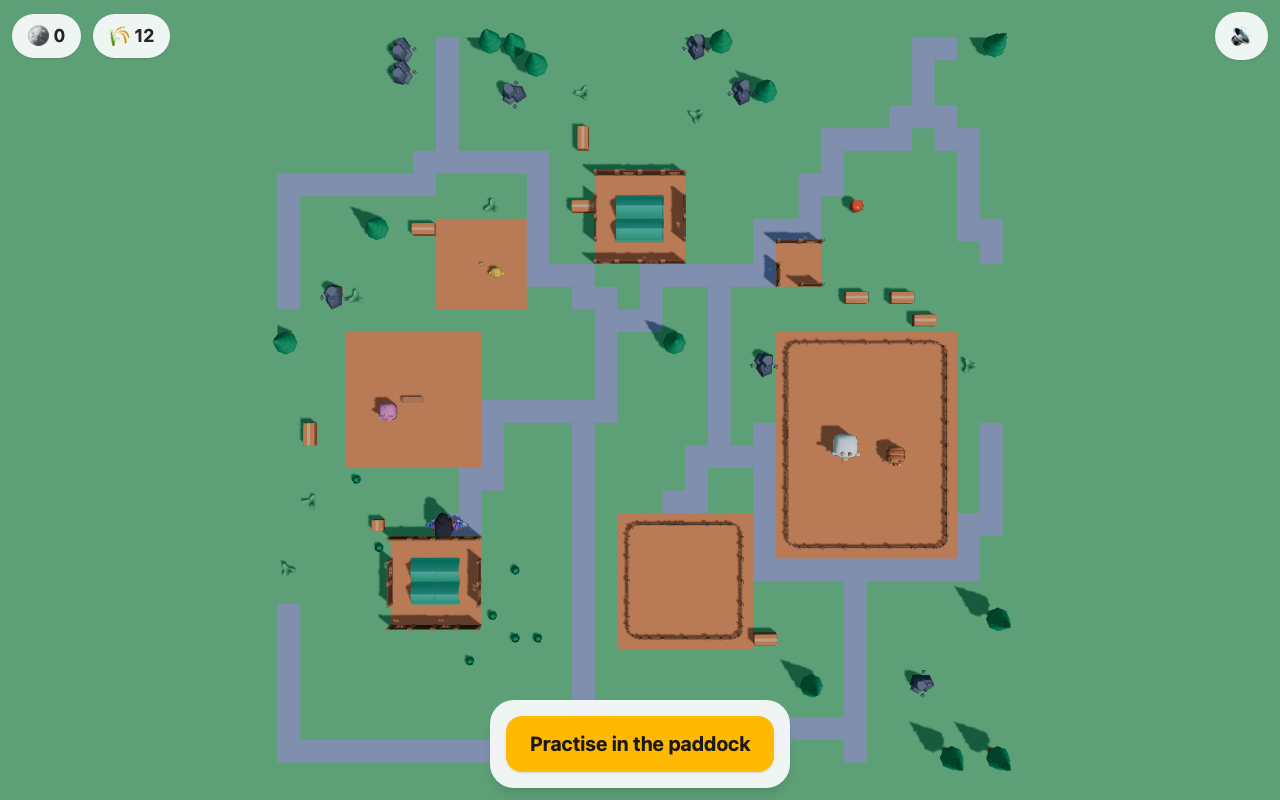
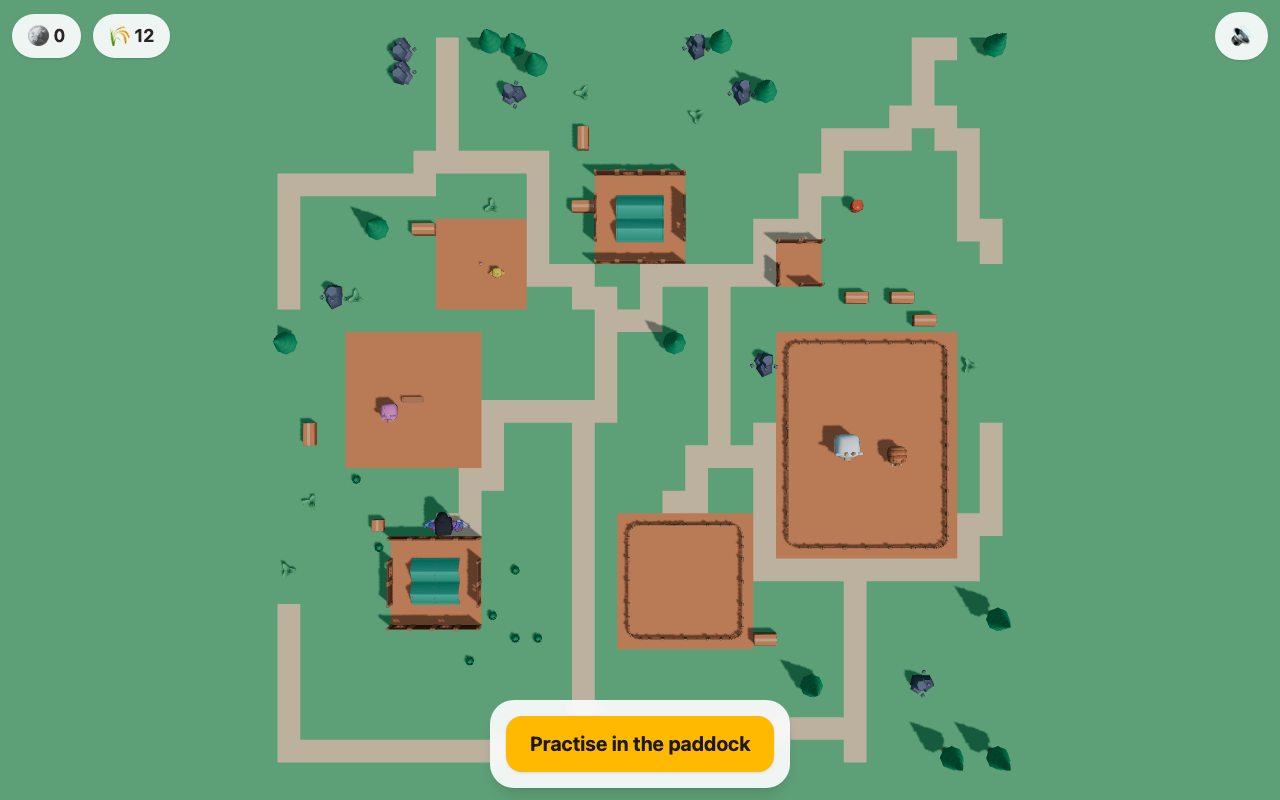
test(SF-76): world editor e2e against the dev server; prod ships no editor
editor.dev.spec.ts drives ?edit=1: paints a grass tile to dirt, places a
tree, rotates and places a fence then erases it (no override left),
drags the farmhouse a tile south and sees the path reach its new
arrival, undoes and redoes, adds a chunk, saves, then asserts the files
on disk hold exactly those edits and that a reload reads them back. It
restores both layout files afterwards. It runs in its own Playwright
project after the other dev specs, which read the same files.

dev-routes.spec.ts: against the production bundle ?edit=1 is the game,
no editor chunk is requested, and no shipped JS file carries the editor.

Screenshots: world-editor-1280x800.png, world-editor-topdown.png; the
dev-view farm screenshots refreshed with the new path colour. The
add-land outlines are a little stronger so they read in top-down.

Claude-Session: https://claude.ai/code/session_01XoFymmWrofKwSVoWC8EcRW

diff --git a/apps/web/e2e/editor.dev.spec.ts b/apps/web/e2e/editor.dev.spec.ts
@@ -1,0 +1,205 @@
+import { readFile, writeFile } from 'node:fs/promises'
+import { type Page, expect, test } from '@playwright/test'
+import type { TileCoord, TileWorld } from '@sf/world'
+
+/**
+ * The world editor (#105), end to end against the dev server: paint, place,
+ * rotate, erase, move a hotspot, undo and redo, add land, save — then the
+ * files on disk must hold exactly those edits. The files are restored after,
+ * so the run leaves the repo clean.
+ */
+
+const LAYOUTS = '../../packages/world/layouts'
+const OVERRIDES_FILE = `${LAYOUTS}/overrides.json`
+const WORLD_FILE = `${LAYOUTS}/world.json`
+const SCREENSHOTS = '../../docs/img'
+/** Below the editor's toolbar, which floats over the top of the view. */
+const CLEAR_OF_TOOLBAR_PX = 110
+
+test.describe.configure({ mode: 'serial' })
+test.use({ viewport: { width: 1280, height: 800 } })
+
+const originals = { overrides: '', world: '' }
+
+test.beforeAll(async () => {
+  originals.overrides = await readFile(OVERRIDES_FILE, 'utf8')
+  originals.world = await readFile(WORLD_FILE, 'utf8')
+})
+
+test.afterAll(async () => {
+  await writeFile(OVERRIDES_FILE, originals.overrides)
+  await writeFile(WORLD_FILE, originals.world)
+})
+
+async function screenOf(page: Page, tile: TileCoord): Promise<{ x: number; y: number }> {
+  return page.evaluate((at) => window.sfWorldEditor!.screenOf(at), tile)
+}
+
+async function clickTile(page: Page, tile: TileCoord): Promise<void> {
+  const { x, y } = await screenOf(page, tile)
+  await page.mouse.click(x, y)
+}
+
+async function dragTile(page: Page, from: TileCoord, to: TileCoord): Promise<void> {
+  const start = await screenOf(page, from)
+  const end = await screenOf(page, to)
+  await page.mouse.move(start.x, start.y)
+  await page.mouse.down()
+  await page.mouse.move(end.x, end.y, { steps: 10 })
+  await page.mouse.up()
+}
+
+/** Lets React commit and three.js draw what the last input changed — frames, not a timer. */
+async function nextFrames(page: Page): Promise<void> {
+  await page.evaluate(
+    () => new Promise<void>((resolve) => requestAnimationFrame(() => requestAnimationFrame(() => requestAnimationFrame(() => resolve())))),
+  )
+}
+
+async function world(page: Page): Promise<TileWorld> {
+  return page.evaluate(() => window.sfWorldEditor!.world())
+}
+
+/** Bare grass away from every hotspot, in the view below the toolbar, spaced apart, nearest the middle of the view first. */
+async function bareGrassTiles(page: Page, count: number): Promise<TileCoord[]> {
+  return page.evaluate(
+    ({ wanted, clearance }) => {
+      const probe = window.sfWorldEditor!
+      const current = probe.world()
+      const view = document.querySelector('[data-testid=editor-scene]')!.getBoundingClientRect()
+      const inView = (at: TileCoord) => {
+        const { x, y } = probe.screenOf(at)
+        return x > view.left + 20 && x < view.right - 20 && y > view.top + clearance && y < view.bottom - 20
+      }
+      const nearHotspot = (at: TileCoord) =>
+        current.hotspots.some(
+          ({ footprint: f }) => at.x >= f.x - 2 && at.x < f.x + f.width + 2 && at.z >= f.z - 2 && at.z < f.z + f.depth + 2,
+        )
+      const middle = { x: (view.left + view.right) / 2, y: (view.top + view.bottom) / 2 }
+      const fromMiddle = (at: TileCoord) => {
+        const { x, y } = probe.screenOf(at)
+        return Math.hypot(x - middle.x, y - middle.y)
+      }
+      const candidates = current.chunks.flatMap((chunk) =>
+        chunk.tiles.flatMap((tile, index) => {
+          const at = { x: chunk.coord.cx * 16 + (index % 16), z: chunk.coord.cz * 16 + Math.floor(index / 16) }
+          const bare = tile.ground.kind === 'grass' && !tile.structure && !tile.decor
+          return bare && !nearHotspot(at) && inView(at) ? [at] : []
+        }),
+      )
+      const found: TileCoord[] = []
+      for (const at of candidates.sort((one, other) => fromMiddle(one) - fromMiddle(other))) {
+        if (found.every((other) => Math.abs(other.x - at.x) + Math.abs(other.z - at.z) > 3)) found.push(at)
+      }
+      return found.slice(0, wanted)
+    },
+    { wanted: count, clearance: CLEAR_OF_TOOLBAR_PX },
+  )
+}
+
+async function inspect(page: Page, tile: TileCoord): Promise<void> {
+  await page.keyboard.press('v')
+  await clickTile(page, tile)
+  await expect(page.getByTestId('inspector-tile')).toHaveText(`x ${tile.x}, z ${tile.z}`)
+}
+
+function unsaved(page: Page) {
+  return page.getByTestId('unsaved-count')
+}
+
+test('edit the farm in the browser and save exactly those edits to the repo', async ({ page }) => {
+  const errors: string[] = []
+  page.on('pageerror', (error) => errors.push(error.message))
+
+  await page.goto('/?edit=1')
+  await expect(page.getByTestId('world-editor')).toHaveAttribute('data-ready', 'true', { timeout: 30_000 })
+  // Chosen in the game camera's view, so the closing screenshot can show them; top-down shows all the land.
+  const [painted, planted, fenced] = (await bareGrassTiles(page, 3)) as [TileCoord, TileCoord, TileCoord]
+  expect(fenced, 'three bare grass tiles on screen').toBeDefined()
+  await page.keyboard.press('t')
+  await expect(page.getByTestId('top-down')).toHaveAttribute('aria-pressed', 'true')
+
+  // Paint a grass tile to dirt; the inspector says it is overridden.
+  await page.getByTestId('palette-dirt').click()
+  await clickTile(page, painted)
+  await inspect(page, painted)
+  await expect(page.getByTestId('inspector-ground')).toContainText('dirt')
+  await expect(page.getByTestId('inspector-ground-source')).toHaveText('overridden')
+
+  // Place a tree.
+  await page.getByTestId('palette-tree').click()
+  await clickTile(page, planted)
+  await expect(unsaved(page)).toHaveAttribute('data-count', '2')
+
+  // Rotate and place a fence, then erase it: erasing a placed piece leaves no override behind.
+  await page.getByTestId('palette-fence').click()
+  await page.keyboard.press('r')
+  await expect(page.getByTestId('rotate')).toContainText('90°')
+  await clickTile(page, fenced)
+  await expect(unsaved(page)).toHaveAttribute('data-count', '3')
+  await inspect(page, fenced)
+  await expect(page.getByTestId('inspector-structure')).toContainText('fence')
+  await page.keyboard.press('e')
+  await clickTile(page, fenced)
+  await expect(unsaved(page)).toHaveAttribute('data-count', '2')
+
+  // Drag the farmhouse one tile south; the path follows it to the new arrival.
+  const farmhouse = (await world(page)).hotspots.find((hotspot) => hotspot.id === 'farmhouse')!
+  const grip = { x: farmhouse.footprint.x + 1, z: farmhouse.footprint.z + 1 }
+  await page.keyboard.press('m')
+  await dragTile(page, grip, { x: grip.x, z: grip.z + 1 })
+  const movedArrival = { x: farmhouse.arrival.x, z: farmhouse.arrival.z + 1 }
+  await expect.poll(async () => (await world(page)).hotspots.find((hotspot) => hotspot.id === 'farmhouse')?.arrival).toEqual(movedArrival)
+  await inspect(page, movedArrival)
+  await expect(page.getByTestId('inspector-ground')).toContainText('path')
+  await expect(unsaved(page)).toHaveAttribute('data-count', '3')
+
+  // Undo the move, then redo it.
+  await page.keyboard.press('ControlOrMeta+z')
+  await expect(unsaved(page)).toHaveAttribute('data-count', '2')
+  expect((await world(page)).hotspots.find((hotspot) => hotspot.id === 'farmhouse')?.arrival).toEqual(farmhouse.arrival)
+  await page.keyboard.press('ControlOrMeta+Shift+z')
+  await expect(unsaved(page)).toHaveAttribute('data-count', '3')
+
+  // Add land east of the farm.
+  await page.keyboard.press('l')
+  await clickTile(page, { x: 20, z: 8 })
+  await expect.poll(async () => (await world(page)).chunks.length).toBe(5)
+  await expect(unsaved(page)).toHaveAttribute('data-count', '4')
+  await page.screenshot({ path: `${SCREENSHOTS}/world-editor-topdown.png` })
+
+  // The deliverable screenshot: game camera, a tile selected, a tree ghost under the cursor.
+  await page.keyboard.press('g')
+  await inspect(page, painted)
+  await page.getByTestId('palette-tree').click()
+  const hover = await screenOf(page, { x: painted.x + 1, z: painted.z })
+  await page.mouse.move(hover.x, hover.y)
+  await nextFrames(page)
+  await page.screenshot({ path: `${SCREENSHOTS}/world-editor-1280x800.png` })
+
+  // Save, and the files on disk hold exactly what was done.
+  await page.getByTestId('save').click()
+  await expect(page.getByTestId('save-status')).toContainText('Saved')
+  await expect(unsaved(page)).toHaveAttribute('data-count', '0')
+  const before = JSON.parse(originals.overrides) as { edits: unknown[] }
+  expect(JSON.parse(await readFile(OVERRIDES_FILE, 'utf8'))).toEqual({
+    schemaVersion: 1,
+    edits: [
+      ...before.edits,
+      { op: 'set-ground', at: painted, ground: 'dirt' },
+      { op: 'place-decor', at: planted, kind: 'tree', rotation: 0 },
+      { op: 'move-hotspot', hotspot: 'farmhouse', to: { x: farmhouse.footprint.x, z: farmhouse.footprint.z + 1 } },
+    ],
+  })
+  const savedWorld = JSON.parse(await readFile(WORLD_FILE, 'utf8')) as { chunks: unknown[] }
+  expect(savedWorld.chunks).toContainEqual({ cx: 1, cz: 0 })
+  expect(savedWorld.chunks).toHaveLength((JSON.parse(originals.world) as { chunks: unknown[] }).chunks.length + 1)
+
+  // A fresh load reads the saved files back: nothing unsaved, the edits still there.
+  await page.reload()
+  await expect(page.getByTestId('world-editor')).toHaveAttribute('data-ready', 'true', { timeout: 30_000 })
+  await expect(unsaved(page)).toHaveAttribute('data-count', '0')
+  expect((await world(page)).chunks).toHaveLength(5)
+
+  expect(errors).toEqual([])
+})

diff --git a/apps/web/e2e/dev-routes.spec.ts b/apps/web/e2e/dev-routes.spec.ts
@@ -1,4 +1,8 @@
+import { readFile, readdir } from 'node:fs/promises'
 import { expect, test } from '@playwright/test'
+
+/** What `vite preview` serves: the webServer builds it before the run. */
+const DIST_ASSETS = 'dist/assets'
 
 // The catalogue viewer is a developer tool; the child's build must not carry
 // it. Against the production bundle, `?assets=1` is just the game.
@@ -15,4 +19,29 @@ test('the production build ignores ?assets=1 and never fetches the catalogue', a
   await expect(page.getByTestId('scene')).toBeVisible()
   await expect(page.getByTestId('asset-catalogue')).toHaveCount(0)
   expect(catalogueChunks).toEqual([])
+})
+
+// The world editor (#105) is a developer tool too: against the production
+// bundle, `?edit=1` is just the game, and no shipped file carries the editor.
+test('the production build ignores ?edit=1 and ships no world editor', async ({ page }) => {
+  const editorRequests: string[] = []
+  page.on('request', (request) => {
+    if (/WorldEditor|world-editor|__editor/.test(request.url())) editorRequests.push(request.url())
+  })
+
+  await page.goto('/?edit=1')
+
+  await expect(page.getByTestId('start-paddock')).toBeVisible()
+  await expect(page.getByTestId('scene')).toBeVisible()
+  await expect(page.getByTestId('world-editor')).toHaveCount(0)
+  expect(editorRequests).toEqual([])
+
+  // The bundle the preview serves: no chunk holds the editor's probe, title or save route.
+  const assets = await readdir(DIST_ASSETS)
+  const carriers: string[] = []
+  for (const file of assets.filter((name) => name.endsWith('.js'))) {
+    const text = await readFile(`${DIST_ASSETS}/${file}`, 'utf8')
+    if (/sfWorldEditor|World editor|__editor\//.test(text)) carriers.push(file)
+  }
+  expect(carriers).toEqual([])
 })

diff --git a/apps/web/playwright.config.ts b/apps/web/playwright.config.ts
@@ -4,8 +4,14 @@ const PROD_PORT = 4173
 const DEV_PORT = 5174
 const prodURL = `http://localhost:${PROD_PORT}`
 const devURL = `http://localhost:${DEV_PORT}`
-/** Specs for dev-only routes (`?assets=1`, `?view=`), which the production build does not contain. */
+/** Specs for dev-only routes (`?assets=1`, `?view=`, `?edit=1`), which the production build does not contain. */
 const DEV_ONLY = /\.dev\.spec\.ts$/
+/**
+ * The world editor's spec saves into `packages/world/layouts/` and restores
+ * the files afterwards. Other dev specs read those files through the same dev
+ * server, so it runs only once they have finished.
+ */
+const WRITES_LAYOUTS = /editor\.dev\.spec\.ts$/
 
 export default defineConfig({
   testDir: './e2e',
@@ -19,7 +25,18 @@ export default defineConfig({
   },
   projects: [
     { name: 'chromium', testIgnore: DEV_ONLY, use: { ...devices['Desktop Chrome'], baseURL: prodURL } },
-    { name: 'chromium-dev', testMatch: DEV_ONLY, use: { ...devices['Desktop Chrome'], baseURL: devURL } },
+    {
+      name: 'chromium-dev',
+      testMatch: DEV_ONLY,
+      testIgnore: WRITES_LAYOUTS,
+      use: { ...devices['Desktop Chrome'], baseURL: devURL },
+    },
+    {
+      name: 'chromium-dev-editor',
+      testMatch: WRITES_LAYOUTS,
+      dependencies: ['chromium-dev'],
+      use: { ...devices['Desktop Chrome'], baseURL: devURL },
+    },
   ],
   webServer: [
     {

diff --git a/apps/web/src/editor/EditorCanvas.tsx b/apps/web/src/editor/EditorCanvas.tsx
@@ -83,7 +83,7 @@ function LandOutlines({ land, tool, hover }: { land: readonly ChunkCoord[]; tool
       ))}
       {offered.map((chunk) => {
         const lit = hovered?.cx === chunk.cx && hovered.cz === chunk.cz
-        return <RectMarker key={`new ${chunk.cx},${chunk.cz}`} rect={chunkRect(chunk)} colour={COLOURS.newLand} opacity={lit ? 0.35 : 0.08} />
+        return <RectMarker key={`new ${chunk.cx},${chunk.cz}`} rect={chunkRect(chunk)} colour={COLOURS.newLand} opacity={lit ? 0.4 : 0.18} />
       })}
     </group>
   )
